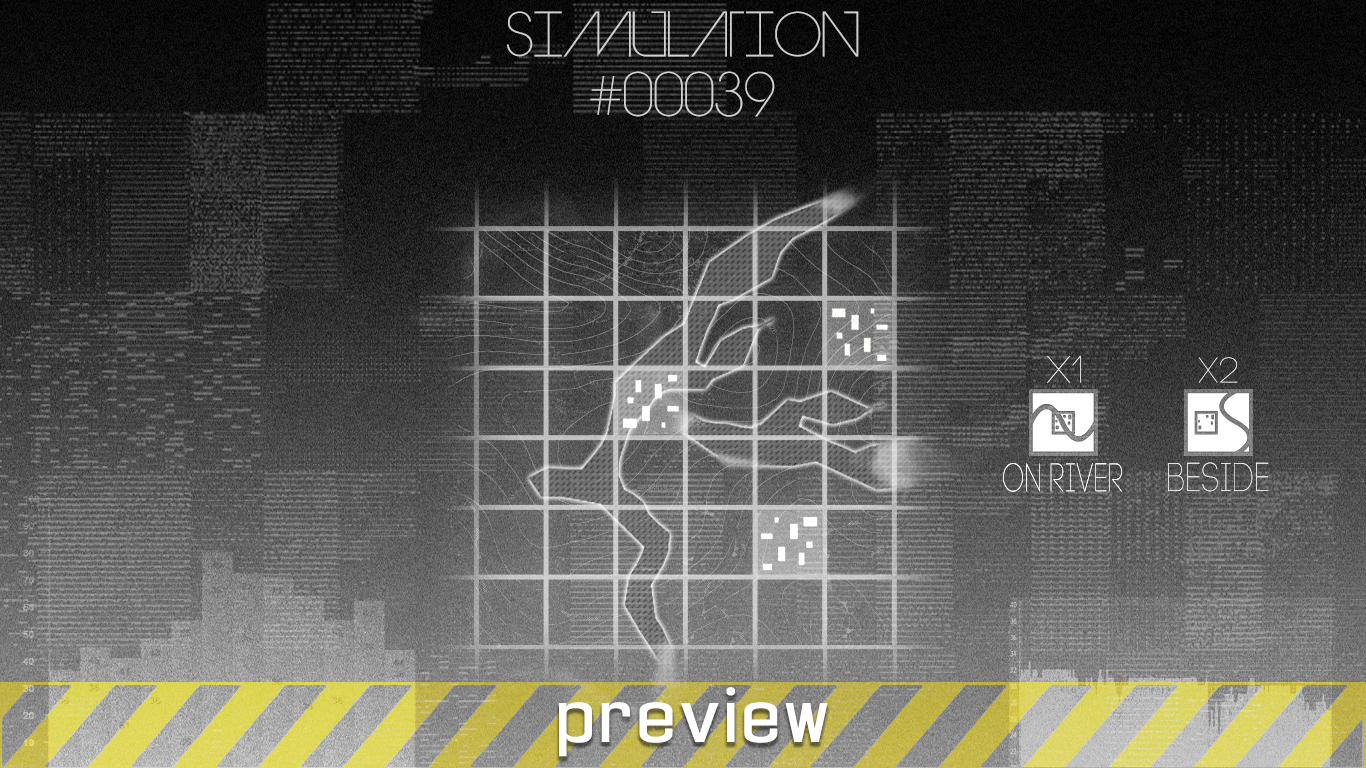
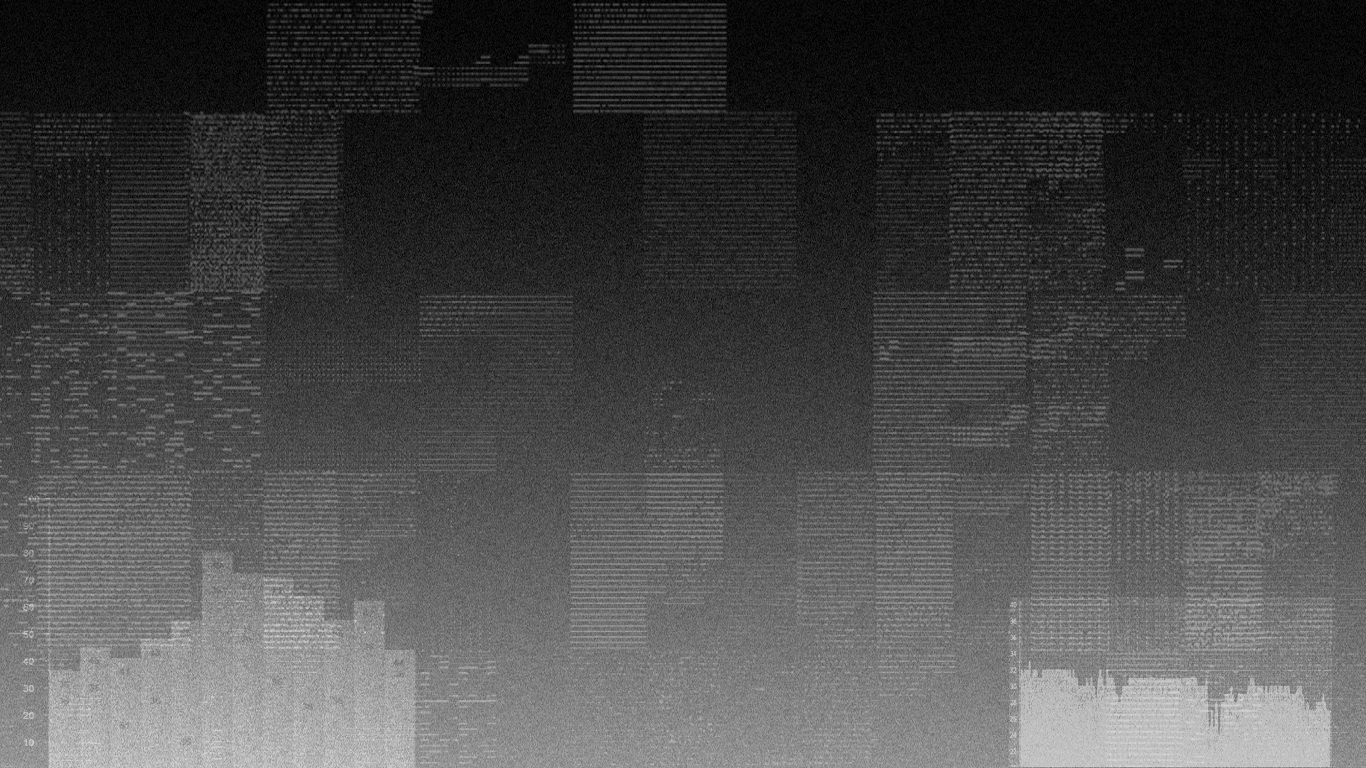
Game State sprite testing
Проверка размеров и работы спрайтов, обьединенияе в группу будущих
кнопок.

diff --git a/www/js/app.js b/www/js/app.js
@@ -32,6 +32,7 @@ init: function() {
 //загрузка игровых ресурсов до запуска игры
 preload: function() {  
 this.load.image('background', 'images/game.png');
+this.load.image('square', 'images/squaresprite.png');
 },
 
 //исполняется один раз после того, как все ресурсы будут загружены
@@ -88,7 +89,7 @@ var wordDelay = 20;
     }
     
     function step2(){
-    firstText.text = 'Распаковываем блоки...';
+    firstText.text = 'Распаковка блоков...';
     game.add.tween(text).to( { alpha: 0 }, 400, Phaser.Easing.Linear.None, true);
     game.add.tween(firstText).to( { alpha: 1 }, 400, Phaser.Easing.Linear.None, true);
     game.time.events.add(Phaser.Timer.SECOND * 3, pafos, this);
@@ -108,7 +109,7 @@ var wordDelay = 20;
             firstText.boundsAlignH= "center";
             firstText.text = 'Блоки повреждены.';
             var tween2 = game.add.tween(firstText).to( { alpha: 1 }, 400, Phaser.Easing.Linear.None, true);
-            game.time.events.add(Phaser.Timer.SECOND * 3, corrupted, this);
+            game.time.events.add(Phaser.Timer.SECOND * 2, corrupted, this);
            
             
             
@@ -123,21 +124,43 @@ var wordDelay = 20;
                         firstText.text = 'Блоки повреждены.\n Необходимо восстановление первичных [HISTORY] блоков.';
                         firstText.fontSize = 20;
                         firstText.align= "center";
-                        tween = game.add.tween(firstText).to({alpha:1},400,Phaser.Easing.Linear.None,true);                        
+                        tween = game.add.tween(firstText).to({alpha:1},400,Phaser.Easing.Linear.None,true);
+                    tween.onComplete.add(toIntroVideo,this);
                     }
                     
                 }
+    
+    function squareAction(e){
+        alert('square ' + e + ' clicked');
+    }
             
     
     
-    function toGameState(){
+    function toIntroVideo(){
     alert('Переход на состояние GameState');
     
-    background = this.game.add.sprite(0, 0, 'background');  
+    background = this.game.add.sprite(0, 0, 'background');
     background.x = 0;
     background.y = 0;
     background.height = game.height;
     background.width = game.width;
+        
+    var item;
+
+    for (var i = 0; i < 3; i++)
+    {
+        // Give the items a different alpha increase speed.
+        item = game.add.sprite(290, 140 * (i + 1), 'square', i);
+
+        // Enable input.
+        item.inputEnabled = true;
+        item.events.onInputUp.add(squareAction);
+
+        // An item besides the left one.
+        item = game.add.sprite(388, 140 * (i + 1), 'square', i + 3);
+        item.inputEnabled = true;
+        item.events.onInputUp.add(squareAction);
+    }
     //game.state.start('GameState');
         
     
